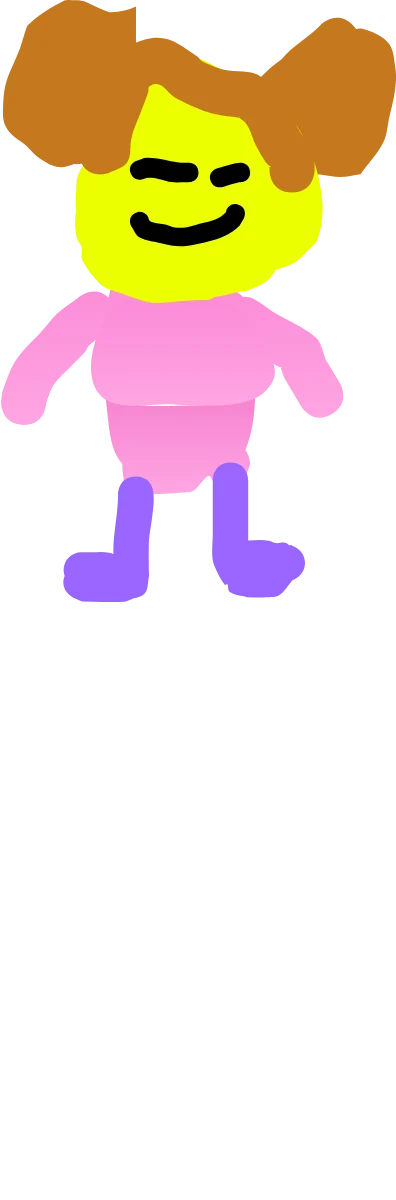
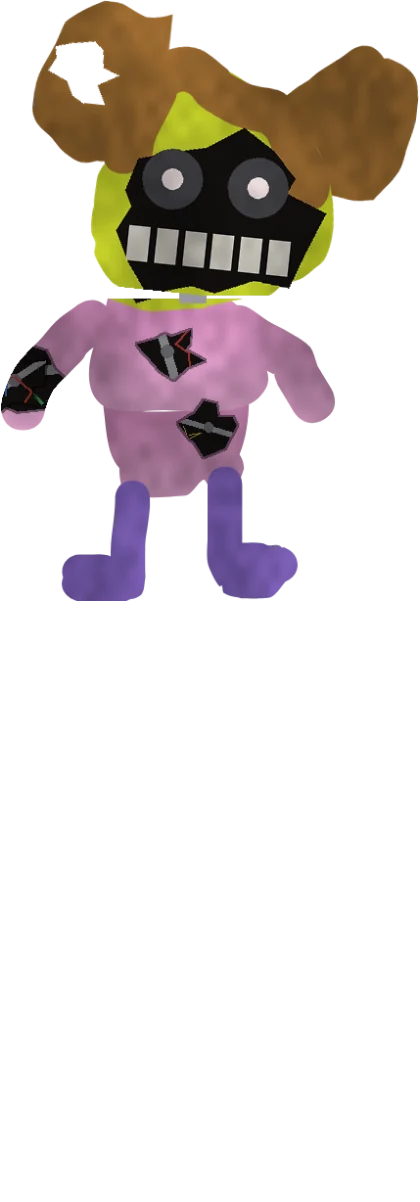
Tape 2: Eddy mask, and the withered cast is torn up and misconfigured
- The Freddy mask is now an Eddy mask (yellow, cream fur).
- Withered characters get holes with the endoskeleton and wires showing,
  ripped ears, grime and a crooked head, plus one broken thing each:
  Eddy's empty eye socket, Weddy's missing face, Cheddy's dropped jaw,
  Endo's ripped-open chest.
- Custom night stars moved onto their new eyes.

Claude-Session: https://claude.ai/code/session_019sP9bhcRVzTr4WAftExQm1

Changed region(s): [[0.0, 0.0, 1.0, 0.5242]]

diff --git a/2/index.html b/2/index.html
@@ -1602,7 +1602,7 @@ const CAST = {
 // Custom night: where each portrait's right eye is (as you look at it), in the 80 x 70 portrait,
 // and how big the star over it is (percent of the 48-wide star picture)
 const EYE_SPOT = {
-  wfreddy: [47, 47, 42], wbonnie: [47, 47.5, 42], wchica: [47, 47, 42], foxy: [46.5, 52, 40], bb: [49, 43, 36],
+  wfreddy: [49.5, 45, 42], wbonnie: [48, 51, 40], wchica: [49, 46.5, 40], foxy: [43, 56, 40], bb: [49, 43, 36],
   tfreddy: [47, 29, 42], tbonnie: [47, 28, 42], tchica: [47, 29, 42], mangle: [53, 41, 40], golden: [56, 54, 40],
 };
 // Which death minigame each character sends you to (anyone else: a random one)

diff --git a/tools/tape2/game.js b/tools/tape2/game.js
@@ -86,7 +86,7 @@ const CAST = {
 // Custom night: where each portrait's right eye is (as you look at it), in the 80 x 70 portrait,
 // and how big the star over it is (percent of the 48-wide star picture)
 const EYE_SPOT = {
-  wfreddy: [47, 47, 42], wbonnie: [47, 47.5, 42], wchica: [47, 47, 42], foxy: [46.5, 52, 40], bb: [49, 43, 36],
+  wfreddy: [49.5, 45, 42], wbonnie: [48, 51, 40], wchica: [49, 46.5, 40], foxy: [43, 56, 40], bb: [49, 43, 36],
   tfreddy: [47, 29, 42], tbonnie: [47, 28, 42], tchica: [47, 29, 42], mangle: [53, 41, 40], golden: [56, 54, 40],
 };
 // Which death minigame each character sends you to (anyone else: a random one)

diff --git a/tools/tape2/withered.py b/tools/tape2/withered.py
@@ -1,0 +1,245 @@
+"""
+withered.py
+Makes the withered characters look like FNaF 2's withered animatronics:
+torn up (holes with the endoskeleton and wires showing, ripped edges,
+grime) and misconfigured (head knocked crooked, plus one thing each):
+
+  wfreddy  Withered Eddy    an eye socket emptied out, torn ear
+  wbonnie  Withered Weddy   no face: a black hole with endoskeleton eyes and teeth
+  wchica   Withered Cheddy  jaw broken open and hanging
+  foxy     Withered Endo    chest ripped open, a chunk bitten out of an ear
+
+Works on any full-body drawing (the game uses Aidan's 2D drawings for
+these until there are 3D models), so it also works on new drawings.
+  wither(image, role) -> image
+"""
+import math
+import numpy as np
+from PIL import Image, ImageDraw, ImageFilter
+
+WITHERED = ('wfreddy', 'wbonnie', 'wchica', 'foxy')
+DARK = (22, 18, 16)
+ENDO = (150, 150, 158)
+WIRES = [(200, 40, 30), (40, 90, 200), (220, 190, 40), (40, 160, 70)]
+
+
+def _jagged(cx, cy, r, rng, n=14, rough=0.45, squash=1.0):
+    """A ragged, torn-looking outline around (cx, cy)."""
+    pts = []
+    for i in range(n):
+        a = 2 * math.pi * i / n + rng.uniform(-0.15, 0.15)
+        rr = r * (1 - rough + rough * 2 * rng.random())
+        pts.append((cx + math.cos(a) * rr, cy + math.sin(a) * rr * squash))
+    return pts
+
+
+def _tear(im, cx, cy, r, rng, squash=1.0):
+    """A torn hole: dark inside, a frayed rim, an endoskeleton strut and wires showing."""
+    w, h = im.size
+    hole = Image.new('L', (w, h), 0)
+    pts = _jagged(cx, cy, r, rng, squash=squash)
+    ImageDraw.Draw(hole).polygon(pts, fill=255)
+    hole = Image.composite(hole, Image.new('L', (w, h), 0), im.getchannel('A').point(lambda v: 255 if v > 100 else 0))
+    inside = Image.new('RGBA', (w, h), DARK + (255,))
+    d = ImageDraw.Draw(inside)
+    # an endoskeleton bar and a joint
+    ang = rng.uniform(0, math.pi)
+    dx, dy = math.cos(ang) * r * 1.4, math.sin(ang) * r * 1.4
+    d.line([(cx - dx, cy - dy), (cx + dx, cy + dy)], fill=ENDO, width=max(2, int(r * 0.32)))
+    d.ellipse([cx - r * 0.22, cy - r * 0.22, cx + r * 0.22, cy + r * 0.22], fill=(110, 110, 118))
+    # loose wires
+    for _ in range(rng.randint(1, 3)):
+        col = WIRES[rng.randrange(len(WIRES))]
+        a0 = rng.uniform(0, 2 * math.pi)
+        p = [(cx + math.cos(a0) * r, cy + math.sin(a0) * r)]
+        for k in range(3):
+            p.append((p[-1][0] + rng.uniform(-r, r) * 0.7, p[-1][1] + rng.uniform(-r, r) * 0.7))
+        d.line(p, fill=col, width=max(1, int(r * 0.09)))
+    # the rim: torn fabric, a bit darker than the body around it
+    rim = hole.filter(ImageFilter.MaxFilter(5))
+    rgb = im.convert('RGB')
+    darker = Image.eval(rgb, lambda v: int(v * 0.55))
+    out = im.copy()
+    out.paste(Image.merge('RGBA', (*darker.split(), im.getchannel('A'))), (0, 0), rim)
+    out.paste(inside, (0, 0), hole)
+    return out
+
+
+def _bite(im, cx, cy, r, rng):
+    """A chunk missing from the edge (see-through)."""
+    a = np.array(im)
+    m = Image.new('L', im.size, 0)
+    ImageDraw.Draw(m).polygon(_jagged(cx, cy, r, rng, rough=0.5), fill=255)
+    a[np.array(m) > 0, 3] = 0
+    return Image.fromarray(a)
+
+
+def _grime(im, rng):
+    """Dirty and faded: duller colors, blotchy dark stains."""
+    a = np.array(im).astype(float)
+    rgb = a[:, :, :3]
+    gray = rgb.mean(axis=2, keepdims=True)
+    rgb = rgb * 0.72 + gray * 0.28                              # faded
+    h, w = a.shape[:2]
+    noise = Image.fromarray((np.array([rng.random() for _ in range(64)]).reshape(8, 8) * 255).astype(np.uint8))
+    noise = np.array(noise.resize((w, h), Image.BICUBIC)).astype(float) / 255
+    fine = Image.fromarray((np.array([rng.random() for _ in range(48 * 48)]).reshape(48, 48) * 255).astype(np.uint8))
+    fine = np.array(fine.resize((w, h), Image.BICUBIC)).astype(float) / 255
+    rgb = rgb * (0.95 - 0.28 * np.clip(noise * 1.4 - 0.3, 0, 1) - 0.12 * fine)[:, :, None]
+    a[:, :, :3] = rgb
+    return Image.fromarray(a.clip(0, 255).astype(np.uint8))
+
+
+def _find_neck(a, y0, y1):
+    """The neck: the narrowest row between the head and the body (30-62% down)."""
+    H = y1 - y0
+    best, by = None, y0 + H * 0.45
+    for y in range(int(y0 + H * 0.30), int(y0 + H * 0.62)):
+        row = np.where(a[y])[0]
+        if len(row) == 0:
+            continue
+        w = row.max() - row.min()
+        if best is None or w < best:
+            best, by = w, y
+    return by
+
+
+def _outline(im):
+    a = np.array(im.getchannel('A')) > 100
+    ys, xs = np.where(a)
+    return a, xs.min(), xs.max(), ys.min(), ys.max()
+
+
+def _inside_point(a, x0, x1, y0, y1, rng, avoid=None):
+    for _ in range(200):
+        x, y = rng.uniform(x0, x1), rng.uniform(y0, y1)
+        if a[int(y), int(x)] and not (avoid and avoid(x, y)):
+            return x, y
+    return (x0 + x1) / 2, (y0 + y1) / 2
+
+
+def _dark_blobs(im, box):
+    """Dark features (eyes, mouth) inside box: [(x0, y0, x1, y1, area)] biggest first."""
+    from collections import deque
+    a = np.array(im)
+    x0, y0, x1, y1 = [int(v) for v in box]
+    sub = a[y0:y1, x0:x1]
+    dark = (sub[:, :, :3].max(axis=2) < 70) & (sub[:, :, 3] > 100)
+    seen = np.zeros_like(dark)
+    out = []
+    H, W = dark.shape
+    for sy in range(0, H, 2):
+        for sx in range(0, W, 2):
+            if not dark[sy, sx] or seen[sy, sx]:
+                continue
+            q = deque([(sy, sx)]); seen[sy, sx] = True; pts = []
+            while q:
+                y, x = q.popleft(); pts.append((x, y))
+                for ny, nx in ((y + 1, x), (y - 1, x), (y, x + 1), (y, x - 1)):
+                    if 0 <= ny < H and 0 <= nx < W and dark[ny, nx] and not seen[ny, nx]:
+                        seen[ny, nx] = True; q.append((ny, nx))
+            xs = [p[0] for p in pts]; ys = [p[1] for p in pts]
+            out.append((x0 + min(xs), y0 + min(ys), x0 + max(xs) + 1, y0 + max(ys) + 1, len(pts)))
+    return sorted(out, key=lambda b: -b[4])
+
+
+def _tilt_head(im, top, neck, cx, deg, shift):
+    """Knock the head crooked: the part above `neck` turns around the neck and slides over."""
+    w, h = im.size
+    head = im.crop((0, 0, w, int(neck)))
+    body = im.copy()
+    a = np.array(body); a[:int(neck), :, 3] = 0; body = Image.fromarray(a)
+    # a bit of bare neck (endoskeleton) shows where the head moved
+    d = ImageDraw.Draw(body)
+    nw = (w * 0.02) + 3
+    d.rectangle([cx - nw, neck - (neck - top) * 0.12, cx + nw, neck + 4], fill=ENDO + (255,))
+    head = head.rotate(deg, resample=Image.BICUBIC, center=(cx, neck), expand=False)
+    body.alpha_composite(head, (int(shift), int(-abs(shift) * 0.3)))
+    return body
+
+
+def wither(im, role, seed=None):
+    im = im.convert('RGBA')
+    # room around it, so a crooked head or a dropped jaw never gets cut off
+    pad = int(max(im.size) * 0.12)
+    big = Image.new('RGBA', (im.width + 2 * pad, im.height + 2 * pad), (0, 0, 0, 0))
+    big.paste(im, (pad, pad))
+    im = big
+    rng = __import__('random').Random(seed if seed is not None else role)
+    a, x0, x1, y0, y1 = _outline(im)
+    H = y1 - y0
+    neck = _find_neck(a, y0, y1)
+    cx = (x0 + x1) / 2
+    face_box = (x0 + (x1 - x0) * 0.15, y0 + H * 0.08, x1 - (x1 - x0) * 0.15, neck)
+
+    # ---- misconfiguration ----
+    blobs = _dark_blobs(im, face_box)
+    if role == 'wbonnie':
+        # no face: the skin under the hair is gone, endoskeleton eyes and teeth in the dark
+        fx0, fy0, fx1, fy1 = face_box
+        d = ImageDraw.Draw(im)
+        top = fy0 + (fy1 - fy0) * 0.32
+        void = _jagged((fx0 + fx1) / 2, (top + fy1) / 2, (fx1 - fx0) * 0.36, rng, n=18, rough=0.18, squash=0.85)
+        d.polygon(void, fill=DARK + (255,))
+        ew = (fx1 - fx0) * 0.07
+        for ex in ((fx0 + fx1) / 2 - (fx1 - fx0) * 0.16, (fx0 + fx1) / 2 + (fx1 - fx0) * 0.16):
+            ey = top + (fy1 - top) * 0.3
+            d.ellipse([ex - ew * 1.6, ey - ew * 1.6, ex + ew * 1.6, ey + ew * 1.6], fill=(70, 70, 76, 255))
+            d.ellipse([ex - ew * 0.55, ey - ew * 0.55, ex + ew * 0.55, ey + ew * 0.55], fill=(255, 235, 235, 255))
+        ty = top + (fy1 - top) * 0.72
+        for i in range(6):
+            tx = (fx0 + fx1) / 2 + (i - 2.5) * ew * 1.5
+            d.rectangle([tx - ew * 0.55, ty - ew * 0.9, tx + ew * 0.55, ty + ew * 0.9], fill=(225, 220, 205, 255))
+    elif role == 'wchica' and blobs:
+        # jaw broken: everything under the mouth drops and hangs crooked, teeth showing in the gap
+        mouth = blobs[0]
+        jy = mouth[1] + (mouth[3] - mouth[1]) * 0.35
+        w, h = im.size
+        jx0, jx1, jy1 = int(face_box[0]) - 5, int(face_box[2]) + 5, int(neck)
+        jaw = Image.new('RGBA', im.size, (0, 0, 0, 0))
+        jaw.paste(im.crop((jx0, int(jy), jx1, jy1)), (jx0, 0))
+        cut = np.array(im); cut[int(jy):jy1, jx0:jx1, 3] = 0
+        base = Image.fromarray(cut)
+        drop = H * 0.07
+        d = ImageDraw.Draw(base)
+        d.rectangle([mouth[0] - 4, jy - 2, mouth[2] + 4, jy + drop + 4], fill=DARK + (255,))
+        tw = (mouth[2] - mouth[0]) / 7
+        for i in range(6):
+            tx = mouth[0] + tw * (i + 0.8)
+            d.polygon([(tx - tw * 0.4, jy), (tx + tw * 0.4, jy), (tx, jy + tw * 0.9)], fill=(225, 220, 205, 255))
+        jaw = jaw.rotate(-9, resample=Image.BICUBIC, center=(mouth[0], 0), expand=False)
+        base.alpha_composite(jaw, (0, int(jy + drop)))
+        im = base
+    elif role == 'wfreddy' and len(blobs) >= 2:
+        # one eye socket emptied out: just a black hole with a tiny light far inside
+        eyes = sorted(blobs[1:3] if len(blobs) > 2 else blobs[:2], key=lambda b: b[0])
+        e = eyes[-1]
+        d = ImageDraw.Draw(im)
+        ecx, ecy = (e[0] + e[2]) / 2, (e[1] + e[3]) / 2
+        r = max(e[2] - e[0], e[3] - e[1]) * 0.75
+        d.ellipse([ecx - r, ecy - r * 0.9, ecx + r, ecy + r * 0.9], fill=DARK + (255,))
+        d.ellipse([ecx - r * 0.18, ecy - r * 0.18, ecx + r * 0.18, ecy + r * 0.18], fill=(255, 245, 230, 255))
+
+    # ---- torn up: holes with the endoskeleton showing ----
+    rs = H * 0.05
+    a, x0, x1, y0, y1 = _outline(im)
+    in_face = lambda x, y: face_box[0] < x < face_box[2] and face_box[1] < y < face_box[3]
+    n_holes = {'foxy': 4, 'wfreddy': 5, 'wbonnie': 4, 'wchica': 5}.get(role, 4)
+    for i in range(n_holes):
+        x, y = _inside_point(a, x0, x1, neck, y1 - H * 0.04, rng, avoid=in_face)
+        im = _tear(im, x, y, rs * rng.uniform(0.7, 1.25), rng, squash=rng.uniform(0.7, 1.2))
+    if role == 'foxy':
+        # chest ripped wide open
+        im = _tear(im, cx + (x1 - x0) * 0.05, neck + H * 0.17, rs * 2.3, rng, squash=0.8)
+    # ripped edges: chunks missing from the ears / sides
+    for i in range({'foxy': 3, 'wfreddy': 2}.get(role, 1)):
+        ex = x0 + (x1 - x0) * (0.12 if i % 2 == 0 else 0.88)
+        ey = y0 + H * rng.uniform(0.03, 0.14)
+        im = _bite(im, ex, ey, rs * rng.uniform(0.8, 1.3), rng)
+
+    im = _grime(im, rng)
+    # ---- head knocked crooked ----
+    deg = {'wfreddy': 7, 'wbonnie': -6, 'wchica': 5, 'foxy': -9}.get(role, 5)
+    a, x0, x1, y0, y1 = _outline(im)
+    im = _tilt_head(im, y0, neck, (x0 + x1) / 2, deg, (x1 - x0) * 0.03 * (1 if deg < 0 else -1))
+    return im

diff --git a/tools/build_game2.py b/tools/build_game2.py
@@ -50,6 +50,8 @@ PICTURES = {
 }
 # FNaF's purple man becomes a grey stranger (same pixels, colors moved away from purple)
 RECOLOR = {('Sprite54', 'Purple_Car')}
+# FNaF's Freddy mask becomes an Eddy mask: the brown turns Eddy yellow, the grey fur cream
+MASK_SPRITES = {'Sprite3', 'Sprite4'}
 
 # ---------------------------------------------------------------------------
 # Sounds: sprite -> sound names (None = every sound). Music follows the Music slider.
@@ -81,17 +83,39 @@ def picture_groups(project):
     return keep
 
 
+def eddy_mask(a):
+    """The mask's colors: brown/red -> Eddy yellow (brighter), grey fur -> cream. a: float RGBA array."""
+    import numpy as np
+    rgb = a[:, :, :3] / 255
+    mx, mn = rgb.max(axis=2), rgb.min(axis=2)
+    sat = np.where(mx > 0, (mx - mn) / np.maximum(mx, 1e-6), 0)
+    val = mx
+    yellow = np.array([1.0, 0.82, 0.12])
+    cream = np.array([0.93, 0.89, 0.72])
+    lit = np.clip(val * 1.7, 0, 1)[:, :, None]
+    colored = (sat > 0.22)[:, :, None] & (val > 0.06)[:, :, None]
+    furry = (sat <= 0.22)[:, :, None] & (val > 0.12)[:, :, None]
+    out = np.where(colored, yellow * lit, rgb)
+    out = np.where(furry, cream * np.clip(val * 1.25, 0, 1)[:, :, None], out)
+    a[:, :, :3] = out * 255
+    return a
+
+
 def recolor(b, pictures):
-    """Turns the purple man (and his car) grey-blue, as new costume pictures."""
+    """Turns the purple man (and his car) grey-blue, and the Freddy mask into an Eddy mask, as new costume pictures."""
     import numpy as np
     from PIL import Image
     for t in pictures:
         for c in t['costumes']:
-            if (t['name'], c['name']) not in RECOLOR:
+            mask = t['name'] in MASK_SPRITES
+            if (t['name'], c['name']) not in RECOLOR and not mask:
                 continue
             a = np.array(Image.open(os.path.join(b.src, c['md5ext'])).convert('RGBA')).astype(float)
-            gray = a[:, :, :3].mean(axis=2, keepdims=True)
-            a[:, :, :3] = gray * np.array([0.78, 0.85, 1.0])            # cold grey-blue
+            if mask:
+                a = eddy_mask(a)
+            else:
+                gray = a[:, :, :3].mean(axis=2, keepdims=True)
+                a[:, :, :3] = gray * np.array([0.78, 0.85, 1.0])            # cold grey-blue
             rel = b.out_name('img', base.slug(t['name'] + '-' + c['name']), 'webp')
             b.save_webp(Image.fromarray(a.clip(0, 255).astype(np.uint8)), rel)
             res = c.get('bitmapResolution', 1)

diff --git a/tools/tape2/cast.py b/tools/tape2/cast.py
@@ -31,6 +31,7 @@ Made here (picture groups the game uses):
 import base64, io, json, math, os, re, shutil
 import numpy as np
 from PIL import Image
+from withered import WITHERED
 
 HERE = os.path.dirname(os.path.abspath(__file__))
 CHAR_DIR = os.path.join(HERE, 'characters')
@@ -237,7 +238,15 @@ class Char:
         _, _, self.w, self.h = b.svg_size(text)
         # draw it once to find the drawing's outline and its head
         k = 600 / max(self.w, self.h)
-        a = np.array(Image.open(io.BytesIO(b.renderer.svg_to_png(text, self.w, self.h, k))))[:, :, 3] > 40
+        drawn = Image.open(io.BytesIO(b.renderer.svg_to_png(text, self.w, self.h, k))).convert('RGBA')
+        if role in WITHERED:
+            # the withered ones: torn up and misconfigured (withered.py), saved as a picture
+            from withered import wither
+            drawn = wither(drawn, role)
+            self.src = f'assets/characters/{role}.png'
+            drawn.save(os.path.join(b.out_root, self.src))
+            self.w, self.h = drawn.width / k, drawn.height / k
+        a = np.array(drawn)[:, :, 3] > 40
         head_part = 0.40
         ys, xs = np.where(a)
         x0, x1, y0, y1 = xs.min() / k, (xs.max() + 1) / k, ys.min() / k, (ys.max() + 1) / k
@@ -502,8 +511,12 @@ def apply(b):
         for kind in ('body', 'head'):
             x0, y0, x1, y1 = ch.body if kind == 'body' else ch.head
             k = (tall if kind == 'body' else 20) / (y1 - y0)
-            text = open(path, encoding='utf-8').read()
-            im = Image.open(io.BytesIO(b.renderer.svg_to_png(text, ch.w, ch.h, k))).convert('RGBA')
+            if path.endswith('.png'):
+                im = Image.open(path).convert('RGBA')
+                im = im.resize((max(1, round(ch.w * k)), max(1, round(ch.h * k))), Image.LANCZOS)
+            else:
+                text = open(path, encoding='utf-8').read()
+                im = Image.open(io.BytesIO(b.renderer.svg_to_png(text, ch.w, ch.h, k))).convert('RGBA')
             im = im.crop((int(x0 * k), int(y0 * k), int(math.ceil(x1 * k)), int(math.ceil(y1 * k))))
             a = np.array(im)
             a[:, :, 3] = np.where(a[:, :, 3] > 110, 255, 0)

diff --git a/HANDOFF.md b/HANDOFF.md
@@ -59,4 +59,5 @@ Built from the FNaF 2 Scratch project (not in the repo, ~40 MB):
 - Mods have no limits (both tapes, ui.js): every file in a mod is kept. Game files are replaced as before; new pictures `img/<folder>/<name>.png` and sounds `snd/<folder>/<name>.mp3` are added to PICTURE_NAMES/SOUND_NAMES (`addNewModFiles`); `mod.js` and any .js run as normal <script>s after the files are in place and before loading (`runModScript`; bottom mod first). Toolbox `FRAE`: file(), image(), onReady() (run by the shell before boot), after/before/replace(obj, fn). Loading a mod with code asks for confirmation. The template has a commented mod.js. GitHub mods take every file.
 - Mods (Tape 2): a mod can also have `models/<name>.glb|gltf|fbx|obj` and `characters/<name>.png|webp|jpg|svg` (names from `ACTOR_FILES`, or the role id). Order: mod model > mod drawing > game model > game drawing. The template ships the game's models and the drawings of characters without a model, plus a README.txt with the names. Code: `actorModFile`/`addActorTemplate` in ui.js, `modActorFile` in actors.js.
 - Office: Aidan's own office renders in `tools/tape2/office/` (000 dark, 010 hall light, 100 left vent, 001 right vent; saved 3 px per game unit, `big` in flatten.py). The old FNaF desk + fan are hidden (his office has its own). Hall/vent spots measured in the FNaF office are moved into his door and vents by `office_spot()` in cast.py (`NEW_VENT_HOLE`, `NEW_HALL`).
+- Withered look: `tools/tape2/withered.py` tears up the withered drawings at build time (holes with endoskeleton struts and wires, bitten ears, grime, head knocked crooked at the neck) plus one misconfiguration each: Withered Eddy an empty eye socket, Withered Weddy no face (black void, endo eyes, teeth), Withered Cheddy a dropped jaw, Withered Endo a ripped-open chest. Saved as assets/characters/<role>.png. The mask is an Eddy mask: `eddy_mask()` in build_game2.py recolors Sprite3/Sprite4 (brown -> yellow, fur -> cream).
 - Lag fixes: pictures are decoded while loading, then every picture and character is drawn once (tiny, under the cover) so the graphics card has them before play; 2D characters are measured while loading (measuring mid-night with getImageData stalled the game once characters started moving); no TV static anywhere in Tape 2 (title, cameras, death: drawStatic only paints black at full strength); opaque canvas (`alpha: false`); drawing capped at 60 per second; imageSmoothingQuality "low" ("high" was re-filtering every scaled picture each frame); HUD text shadow is a 1px offset copy, not shadowBlur; darkening uses a cached black copy instead of `ctx.filter`; the canvas is capped at 960 device px wide (2 per game pixel); long animations are saved at half size (`half` lists in `tools/flatten.py`, `HALF_SIZE_GROUPS`). Decoded pictures: Tape 1 about 330 MB (was 550), Tape 2 about 130 MB (was 550).
